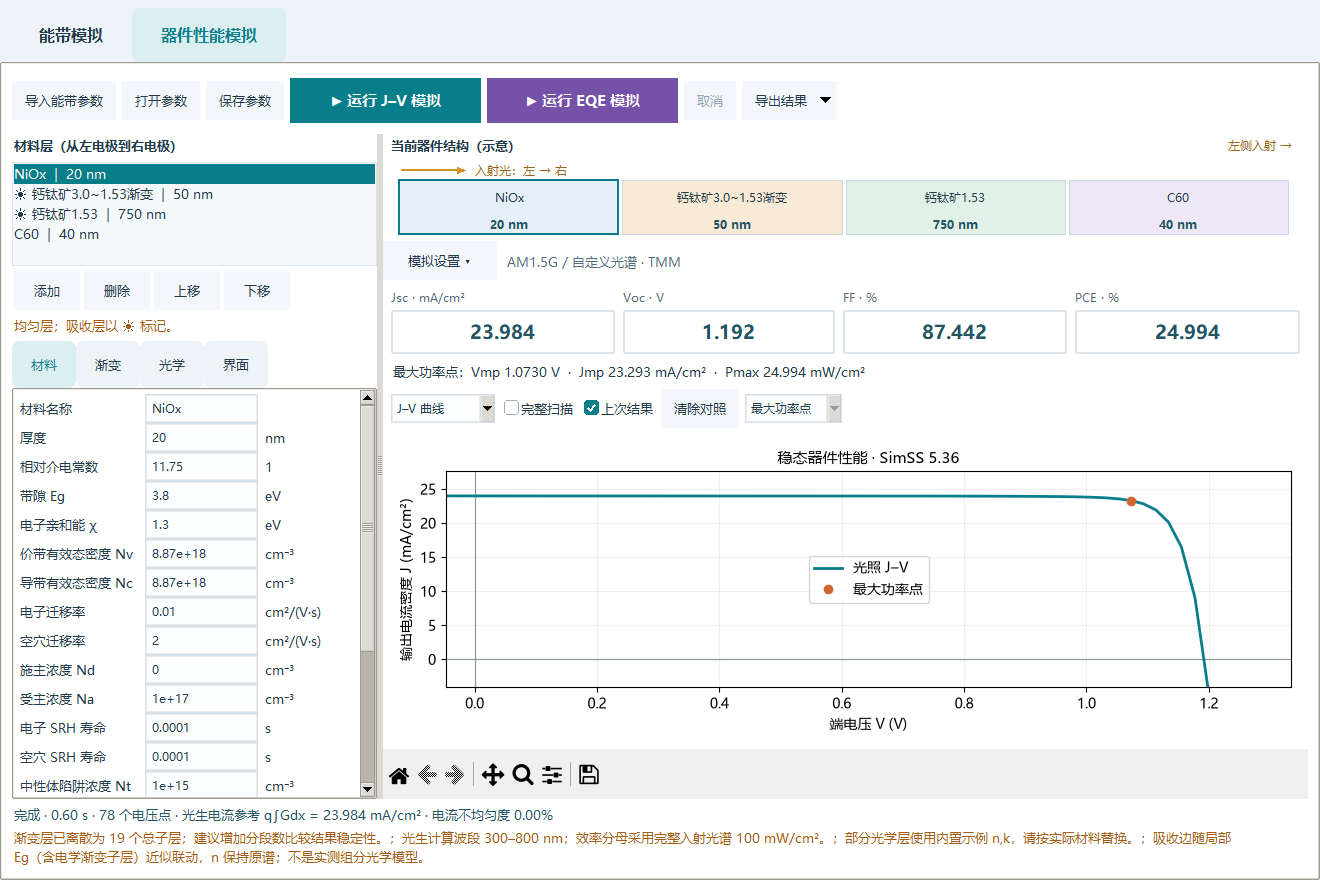
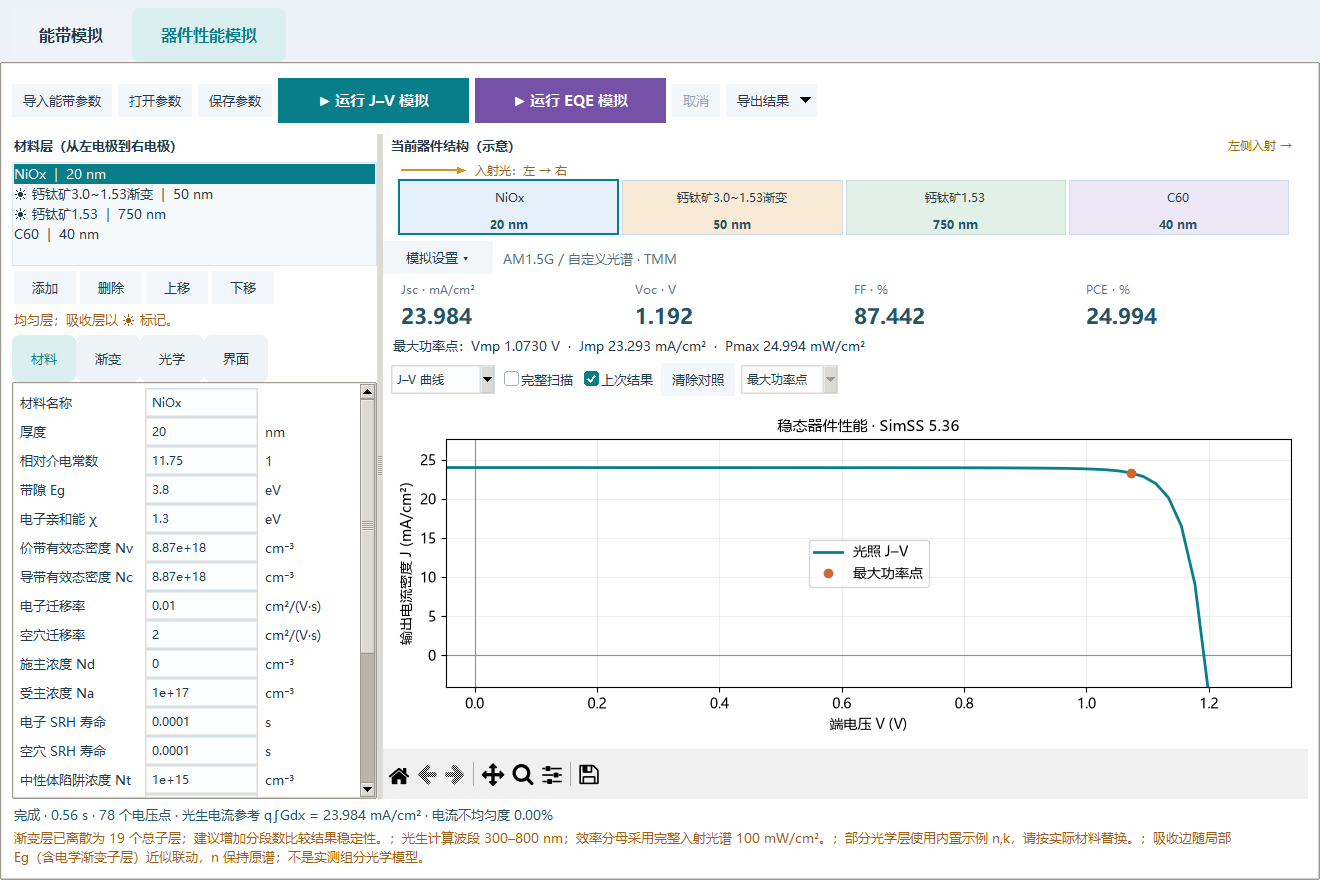
Compact secondary controls and JV metrics while keeping primary actions large

diff --git a/performance_page.py b/performance_page.py
@@ -285,18 +285,20 @@ class PerformancePage(ttk.Frame):
             var.trace_add('write', self.mark_dirty)
         ttk.Label(eqe_tab.content, text='短路微分 EQE；使用光学波段，逐波长叠加 1 nm 探测光。\n计算包含输运/复合；EQE 单独保存，切回 J–V 查看其指标。',
                   foreground='#805c16').grid(row=3, column=0, columnspan=3, sticky='w', padx=5, pady=5)
-        summary = ttk.Frame(right, padding=(4, 6))
+        summary = ttk.Frame(right, padding=(4, 2))
         self.summary = summary
         summary.pack(fill='x')
         self.metric_vars = {}
         for i, (key, title, unit) in enumerate([('Jsc', 'Jsc', 'mA/cm²'), ('Voc', 'Voc', 'V'),
                                                 ('FF', 'FF', '%'), ('PCE', 'PCE', '%')]):
-            card = ttk.LabelFrame(summary, text=f'{title} · {unit}', padding=5)
+            card = ttk.Frame(summary, padding=(8, 0))
             card.grid(row=0, column=i, sticky='ew', padx=4)
             summary.columnconfigure(i, weight=1)
+            ttk.Label(card, text=f'{title} · {unit}', font=('Microsoft YaHei', 9),
+                      foreground='#617580').pack(anchor='w')
             var = tk.StringVar(value='—')
             self.metric_vars[key] = var
-            ttk.Label(card, textvariable=var, font=('Microsoft YaHei', 14, 'bold'), foreground='#245565').pack()
+            ttk.Label(card, textvariable=var, font=('Microsoft YaHei', 16, 'bold'), foreground='#245565').pack(anchor='w')
         self.mpp_text = tk.StringVar(value='尚未计算。输入支持科学计数法，例如 3e21。')
         self.mpp_label = ttk.Label(right, textvariable=self.mpp_text, wraplength=800)
         self.mpp_label.pack(anchor='w', padx=8)

diff --git a/ui_helpers.py b/ui_helpers.py
@@ -14,7 +14,7 @@ def configure_theme(root):
     style.configure('TLabel', background='#ffffff')
     style.configure('TCheckbutton', background='#ffffff', padding=(2, 3))
     style.map('TCheckbutton', background=[('active', '#f0f6f8')])
-    style.configure('TButton', width=0, padding=(10, 7), background='#f3f6fa', bordercolor='#d6e0e8', relief='flat', shiftrelief=0)
+    style.configure('TButton', width=0, padding=(8, 4), background='#f3f6fa', bordercolor='#d6e0e8', relief='flat', shiftrelief=0)
     style.map('TButton', background=[('active', '#e3edf2')], foreground=[('disabled', '#93a3b1')])
     style.configure('Accent.TButton', font=('Microsoft YaHei', 11, 'bold'), background='#087e8b',
                     foreground='white', padding=(16, 10), bordercolor='#087e8b')
@@ -23,7 +23,7 @@ def configure_theme(root):
     style.configure('EQE.Accent.TButton', background='#7651a8', bordercolor='#7651a8')
     style.map('EQE.Accent.TButton', background=[('disabled', '#b8a5d0'), ('active', '#5d398c')],
               foreground=[('disabled', '#f0eaf7')])
-    style.configure('TMenubutton', width=0, padding=(10, 7), background='#f3f6fa', bordercolor='#d6e0e8', relief='flat')
+    style.configure('TMenubutton', width=0, padding=(8, 4), background='#f3f6fa', bordercolor='#d6e0e8', relief='flat')
     style.configure('TEntry', padding=(5, 4), fieldbackground='#fbfdff', bordercolor='#d6e0e8')
     style.configure('TCombobox', padding=(4, 4), fieldbackground='#fbfdff', bordercolor='#d6e0e8')
     style.map('TCombobox', fieldbackground=[('readonly', '#fbfdff')])

diff --git a/README.md b/README.md
@@ -4,7 +4,7 @@
 
 Python / Windows 桌面工具，将能带分析和器件性能模拟整合到两个独立页面。能带页查看真空参考排列、自洽热平衡能带、电场与载流子浓度；性能页用 SimSS 计算均匀或渐变器件的稳态 J–V、Jsc、Voc、FF、PCE。版本 **1.3.3**。
 
-1.3.3 更新：两个页面的材料列表显示 5 行，新增随当前输入更新的器件结构图，标注名称、厚度及入射方向；小窗口自动调整结构图位置。J–V / EQE 运行按钮大小一致，分别使用青色与紫色。新增 [器件结构参数库](device_structures/README.md)，收录 Air 入射、3.0→1.53 eV 渐变器件的原始参数。详见 [更新记录](CHANGELOG.md)。
+1.3.3 更新：两个页面的材料列表显示 5 行，新增随当前输入更新的器件结构图，标注名称、厚度及入射方向；小窗口自动调整结构图位置。J–V / EQE 运行按钮大小一致，分别使用青色与紫色；辅助按钮缩小，J–V 四项指标改为无大边框的紧凑布局，保留大号数值，为图表腾出空间。新增 [器件结构参数库](device_structures/README.md)，收录 Air 入射、3.0→1.53 eV 渐变器件的原始参数。详见 [更新记录](CHANGELOG.md)。
 
 ![能带模拟页面](preview_band_studio.png)
 

diff --git a/CHANGELOG.md b/CHANGELOG.md
@@ -6,6 +6,8 @@
 - 新增当前器件结构图：逐层显示名称、厚度和选中状态，性能页入射箭头跟随光学设置；能带页可选择并保存示意方向，不改变暗态求解。
 - 名称和厚度编辑即时刷新结构图；增删、排序、导入及打开项目后更新。长结构支持横向滚动，小窗口使用紧凑图示并自动移到左侧，为结果图保留空间。
 - J–V / EQE 运行按钮使用相同字体、尺寸和内边距，以青色 / 紫色区分，按下或禁用时不改变尺寸。
+- 缩小打开、保存、导出、增删层及对照等辅助按钮的内边距，释放参数区和图表空间；两个主要运行按钮保持大尺寸。
+- J–V 四项指标去掉大边框，使用紧凑的参数名/单位与大号数值两行布局，为曲线增加显示高度。
 - 新建 `device_structures/` 参数库，原样收录 `器件air入射-3.0渐变1.53参数.json`，说明使用方法与原始光学设置；性能页默认从此目录打开参数，Windows 打包版内置该目录。
 - 模拟引擎及物理计算不变；已有成功结果的保留和独立快照机制不变。
 
